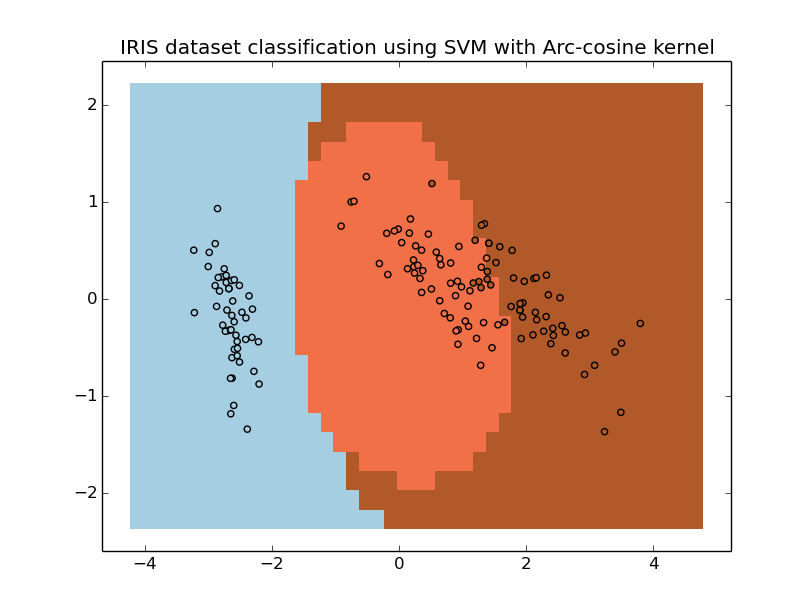
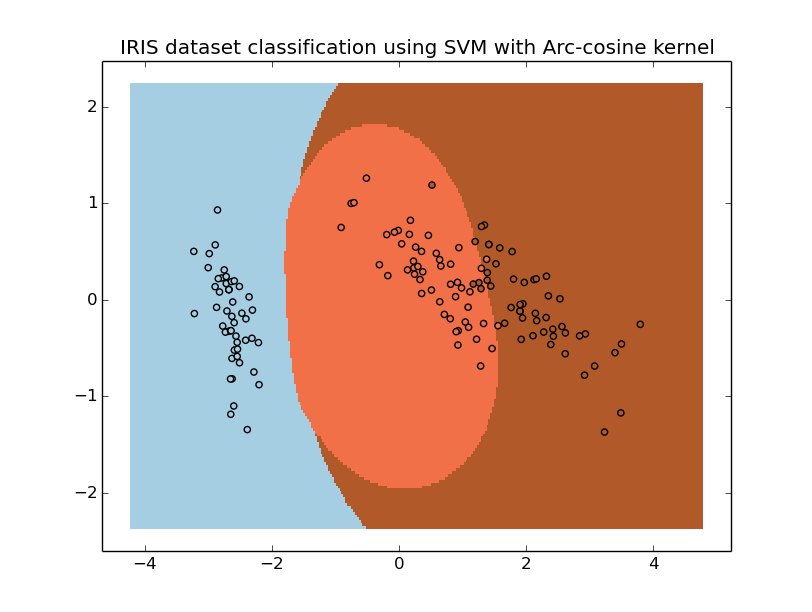
increment changed

diff --git a/arc_cosine/desicionBoundary/db_arcCosine.py b/arc_cosine/desicionBoundary/db_arcCosine.py
@@ -37,7 +37,7 @@ def compute_J(N, theta):
 def arc_cosine(X, Y):
   """param = a vector of n(degree) values at each layer """
   print X.shape
-  param = np.array([3,2,2,1])
+  param = np.array([2,1,1,1])
   no_of_layers = len(param)
 
 
@@ -72,7 +72,7 @@ pca = decomposition.PCA(n_components=2)
 pca.fit(X)
 X = pca.transform(X)
 
-h = 0.2  # step size in the mesh
+h = 0.03  # step size in the mesh
 
 # we create an instance of SVM and fit out data.
 #clf = svm.SVC(kernel=my_kernel)
